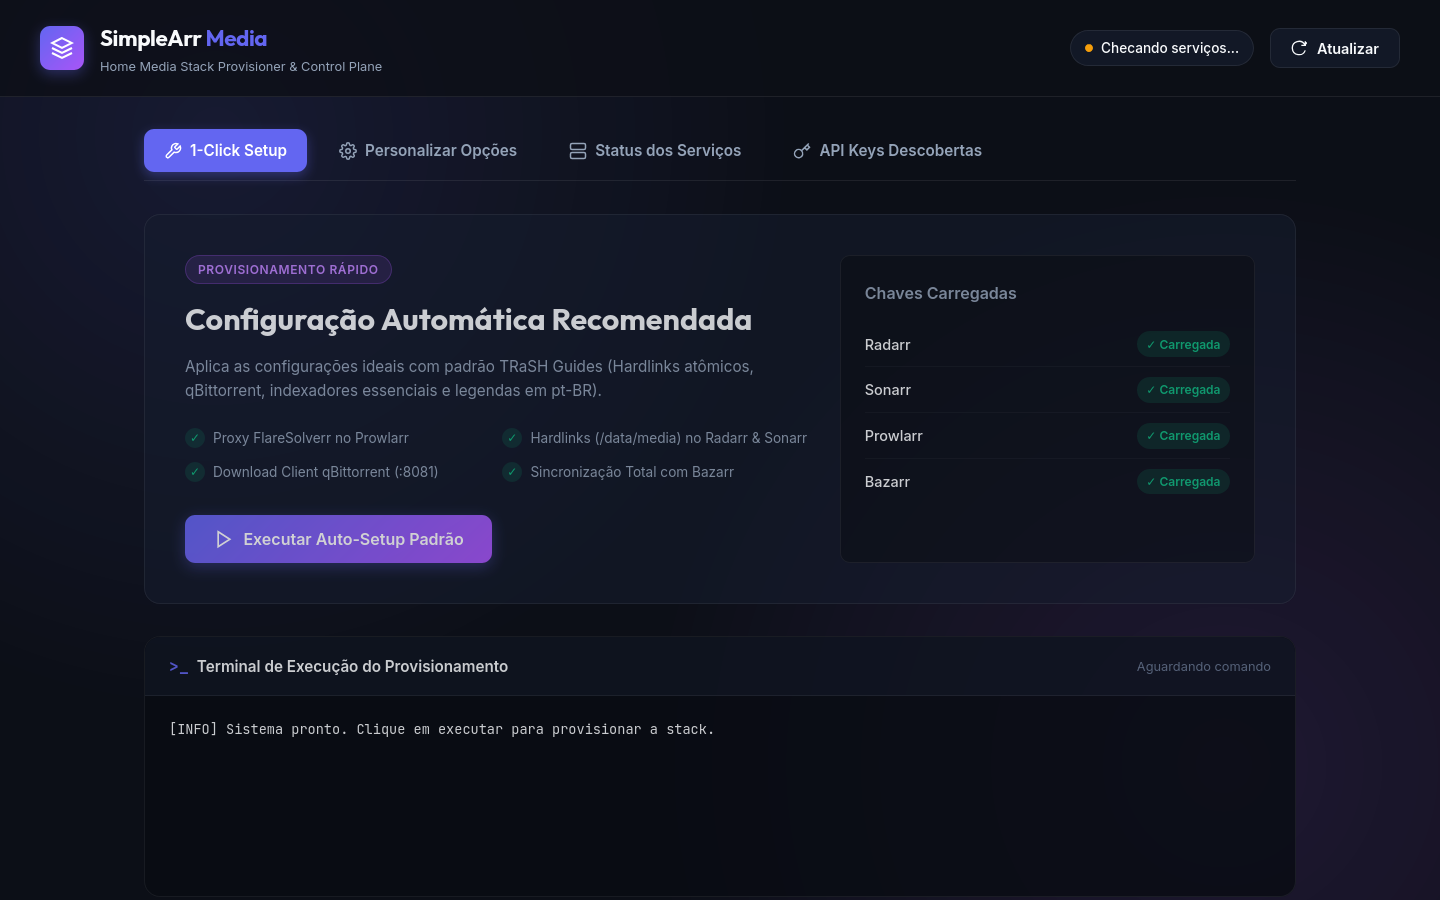
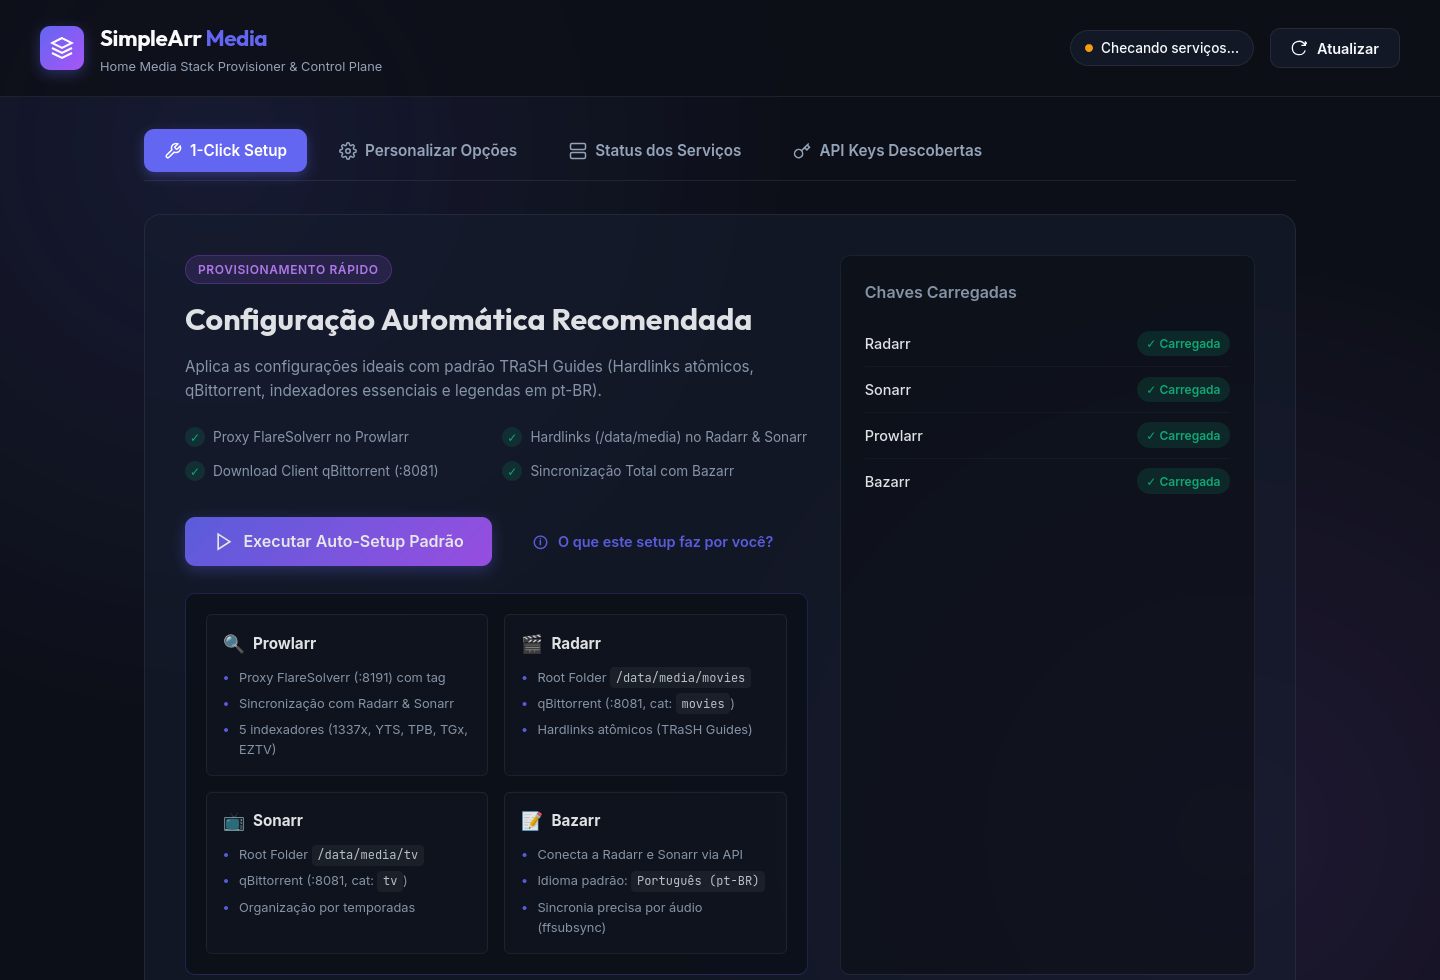
feat(ui): add explanatory details card for 1-click auto-setup and update screenshot

diff --git a/hub/app/static/index.html b/hub/app/static/index.html
@@ -123,6 +123,47 @@
                             </svg>
                             Executar Auto-Setup Padrão
                         </button>
+                        <button type="button" class="btn btn-text" id="btnToggleDetails">
+                            <span class="info-icon">ⓘ</span> O que este setup faz por você?
+                        </button>
+                    </div>
+
+                    <!-- Balão / Painel explicativo de ações -->
+                    <div class="setup-details-box open" id="setupDetailsBox">
+                        <div class="details-grid">
+                            <div class="detail-card">
+                                <div class="detail-header"><span class="detail-icon">🔍</span> <strong>Prowlarr</strong></div>
+                                <ul>
+                                    <li>Proxy FlareSolverr (:8191) com tag</li>
+                                    <li>Sincronização com Radarr & Sonarr</li>
+                                    <li>5 indexadores (1337x, YTS, TPB, TGx, EZTV)</li>
+                                </ul>
+                            </div>
+                            <div class="detail-card">
+                                <div class="detail-header"><span class="detail-icon">🎬</span> <strong>Radarr</strong></div>
+                                <ul>
+                                    <li>Root Folder <code>/data/media/movies</code></li>
+                                    <li>qBittorrent (:8081, cat: <code>movies</code>)</li>
+                                    <li>Hardlinks atômicos (TRaSH Guides)</li>
+                                </ul>
+                            </div>
+                            <div class="detail-card">
+                                <div class="detail-header"><span class="detail-icon">📺</span> <strong>Sonarr</strong></div>
+                                <ul>
+                                    <li>Root Folder <code>/data/media/tv</code></li>
+                                    <li>qBittorrent (:8081, cat: <code>tv</code>)</li>
+                                    <li>Organização por temporadas</li>
+                                </ul>
+                            </div>
+                            <div class="detail-card">
+                                <div class="detail-header"><span class="detail-icon">📝</span> <strong>Bazarr</strong></div>
+                                <ul>
+                                    <li>Conecta a Radarr e Sonarr via API</li>
+                                    <li>Idioma padrão: <code>Português (pt-BR)</code></li>
+                                    <li>Sincronia precisa por áudio (ffsubsync)</li>
+                                </ul>
+                            </div>
+                        </div>
                     </div>
                 </div>
 

diff --git a/hub/app/static/style.css b/hub/app/static/style.css
@@ -273,6 +273,111 @@ body {
     font-weight: 700;
 }
 
+.action-row {
+    display: flex;
+    align-items: center;
+    gap: 1.25rem;
+    flex-wrap: wrap;
+    margin-bottom: 1.5rem;
+}
+
+.btn-text {
+    background: none;
+    border: none;
+    color: var(--primary);
+    font-size: 0.9rem;
+    font-weight: 600;
+    cursor: pointer;
+    display: inline-flex;
+    align-items: center;
+    gap: 0.4rem;
+    padding: 0.5rem 0.75rem;
+    border-radius: var(--radius-sm);
+    transition: all 0.2s ease;
+}
+
+.btn-text:hover {
+    color: #fff;
+    background: rgba(99, 102, 241, 0.15);
+}
+
+.info-icon {
+    font-size: 1rem;
+}
+
+/* Balão / Card Explicativo */
+.setup-details-box {
+    margin-top: 1rem;
+    background: rgba(10, 13, 22, 0.75);
+    border: 1px solid rgba(99, 102, 241, 0.25);
+    border-radius: var(--radius-md);
+    padding: 1.25rem;
+    backdrop-filter: blur(12px);
+    transition: all 0.3s ease;
+}
+
+.setup-details-box.closed {
+    display: none;
+}
+
+.details-grid {
+    display: grid;
+    grid-template-columns: repeat(2, 1fr);
+    gap: 1rem;
+}
+
+.detail-card {
+    background: rgba(255, 255, 255, 0.02);
+    border: 1px solid var(--border-subtle);
+    border-radius: var(--radius-sm);
+    padding: 0.9rem 1rem;
+}
+
+.detail-header {
+    display: flex;
+    align-items: center;
+    gap: 0.5rem;
+    font-size: 0.95rem;
+    margin-bottom: 0.6rem;
+    color: var(--text-main);
+}
+
+.detail-icon {
+    font-size: 1.1rem;
+}
+
+.detail-card ul {
+    list-style: none;
+    padding-left: 0;
+    display: flex;
+    flex-direction: column;
+    gap: 0.35rem;
+}
+
+.detail-card li {
+    font-size: 0.8rem;
+    color: var(--text-secondary);
+    position: relative;
+    padding-left: 1rem;
+}
+
+.detail-card li::before {
+    content: "•";
+    position: absolute;
+    left: 0;
+    color: var(--primary);
+    font-weight: bold;
+}
+
+.detail-card code {
+    background: rgba(255, 255, 255, 0.06);
+    padding: 0.15rem 0.35rem;
+    border-radius: 4px;
+    font-family: var(--font-mono);
+    color: #cbd5e1;
+    font-size: 0.75rem;
+}
+
 /* Custom Config Form */
 .custom-form-grid {
     display: grid;

diff --git a/hub/app/static/app.js b/hub/app/static/app.js
@@ -316,6 +316,15 @@ document.addEventListener('DOMContentLoaded', () => {
         loadDiscoveredKeys();
     });
 
+    // 7. Toggle do Balão de Detalhes
+    const btnToggleDetails = document.getElementById('btnToggleDetails');
+    const setupDetailsBox = document.getElementById('setupDetailsBox');
+    if (btnToggleDetails && setupDetailsBox) {
+        btnToggleDetails.addEventListener('click', () => {
+            setupDetailsBox.classList.toggle('closed');
+        });
+    }
+
     // Inicialização
     loadDiscoveredKeys();
     loadDefaultSettings();
